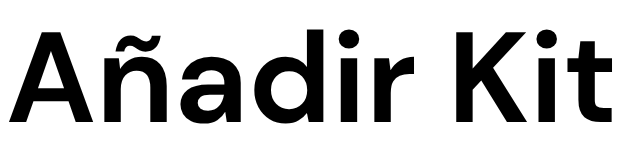
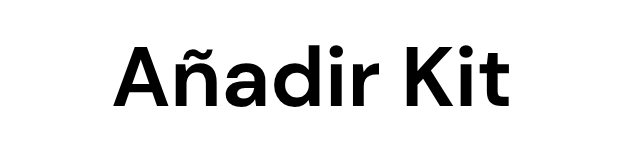
Parte gráfica de PanelaAgregarKit
Completé la parte gráfica de AgregarKit, ya solo falta que Emma añada la lógica.

Changed region(s): [[0.0, 0.1795, 1.0, 0.7949]]

diff --git a/BiblioMath/src/PanelAgregarKit.java b/BiblioMath/src/PanelAgregarKit.java
@@ -31,9 +31,9 @@ import javax.swing.border.LineBorder; // Permite agregar colores
 public class PanelAgregarKit extends JPanel { // Función: Formulario para conceptos
 
     private JButton botonLogoBiblio, botonHerramientas, botonlogoMate, botonRegistar,botonBiblioConcepto,botonEjercicios,botonKits;
-    private JLabel tectoAprenderHoy, textoNombreConcepto,textoInstrucciones, textoInstruccionesRespuesta;
-    private JTextField campoNombreConcepto;
-    private JTextArea informacionEjercicio, informacionRespuesta;
+    private JLabel tectoAprenderHoy, imagenDecorativaEscalonado, textonombreKit;
+    private JTextField campoNombreKit;
+
     private Sistema sistema;
 
     public PanelAgregarKit(Sistema sistema) {
@@ -53,7 +53,7 @@ public class PanelAgregarKit extends JPanel { // Función: Formulario para conce
     
     //BOTON LOGO
         //Carga imagen del logo de biblioMath
-        ImageIcon logoBiblioOriginal = new ImageIcon("BiblioMath/recursos/anadirKit.png"); //Agregamos la imagen "carpeta/carpeta/archivo.loqueEs"
+        ImageIcon logoBiblioOriginal = new ImageIcon("BiblioMath/recursos/logoBiblio.png"); //Agregamos la imagen "carpeta/carpeta/archivo.loqueEs"
         //Cambiar el TAMAÑO de la imagen
         Image logoBiEscalada =  logoBiblioOriginal.getImage().getScaledInstance(230, 50, Image.SCALE_SMOOTH);
         //Convertir nuevamente a ImageIcon
@@ -196,7 +196,7 @@ public class PanelAgregarKit extends JPanel { // Función: Formulario para conce
 
 
     //AGREGAR IMAGEN DEL TEXTO
-        ImageIcon textoAprender = new ImageIcon("BiblioMath/recursos/anadirEjercicio.png"); //Agregamos la imagen "carpeta/carpeta/archivo.loqueEs"
+        ImageIcon textoAprender = new ImageIcon("BiblioMath/recursos/anadirKit.png"); //Agregamos la imagen "carpeta/carpeta/archivo.loqueEs"
         //Cambiar el TAMAÑO de la imagen
         Image textoApEscalonada =  textoAprender.getImage().getScaledInstance(400, 100, Image.SCALE_SMOOTH);
         //Convertir nuevamente a ImageIcon
@@ -217,81 +217,49 @@ public class PanelAgregarKit extends JPanel { // Función: Formulario para conce
         ladoIzquiero.setOpaque(false); //Para que no muestre color 
 
         //Mostrar Ingrese el nombre del concepto 
-        textoNombreConcepto = new JLabel("Nombre del Concepto");
-        textoNombreConcepto.setFont(new Font ("SansSerif", Font.PLAIN, 20)); //Poner una fuente al texto. 
-        textoNombreConcepto.setForeground( Color.WHITE); // cambiar de color de letra 
-        textoNombreConcepto.setAlignmentX(CENTER_ALIGNMENT); // Para que se posiciones a la derecha
+        textonombreKit = new JLabel("Nombre del Kit");
+        textonombreKit.setFont(new Font ("SansSerif", Font.PLAIN, 20)); //Poner una fuente al texto. 
+        textonombreKit.setForeground( Color.WHITE); // cambiar de color de letra 
+        textonombreKit.setAlignmentX(CENTER_ALIGNMENT); // Para que se posiciones a la derecha
 
         //Mostrar intrucciones
-        campoNombreConcepto = new JTextField();
-        campoNombreConcepto.setMaximumSize(new Dimension(350,35));  //Deteriminar tamaño dell campo
-        campoNombreConcepto.setAlignmentX(CENTER_ALIGNMENT);
-        campoNombreConcepto.setAlignmentY(CENTER_ALIGNMENT);//Alinear
+        campoNombreKit = new JTextField();
+        campoNombreKit.setMaximumSize(new Dimension(350,35));  //Deteriminar tamaño dell campo
+        campoNombreKit.setAlignmentX(CENTER_ALIGNMENT);
+        campoNombreKit.setAlignmentY(CENTER_ALIGNMENT);//Alinear
 
-         //Mostrar instrucciones 
-        textoInstrucciones = new JLabel("Ingresa el ejercicio");
-        textoInstrucciones.setFont(new Font ("SansSerif", Font.PLAIN, 20)); //Poner una fuente al texto. 
-        textoInstrucciones.setForeground( Color.WHITE); // cambiar de color de letra 
-        textoInstrucciones.setAlignmentX(CENTER_ALIGNMENT); // Para que se posiciones a la derecha
-
-        //JtextArea
-        informacionEjercicio = new JTextArea();
-        informacionEjercicio.setLineWrap(true); // para un salto de linea
-        informacionEjercicio.setWrapStyleWord(false); //para romper palabras si es necesario
-        informacionEjercicio.setFont(new Font("Arial", Font.PLAIN,12)); // Cambiar el tipo y tamaño de letra
-
-        JScrollPane barra = new JScrollPane(informacionEjercicio); // Crar un Jscrollpanel y se agrega a al cuadro de texto
-        
-        barra.setMaximumSize(new Dimension(350,230)); // Obligamos aque coloque ese tamaño
-        barra.setBorder(new LineBorder(new Color(63, 123, 242)));
-
-        ladoIzquiero.add(Box.createVerticalStrut(30));
-        ladoIzquiero.add(textoNombreConcepto);
-        ladoIzquiero.add(Box.createVerticalStrut(15));
-        ladoIzquiero.add(campoNombreConcepto);
-        ladoIzquiero.add(Box.createVerticalStrut(30));
-        ladoIzquiero.add(textoInstrucciones);
-        ladoIzquiero.add(Box.createVerticalStrut(15));
-        ladoIzquiero.add(barra);
-        ladoIzquiero.add(Box.createVerticalStrut(5));
-
-        contenido.add(ladoIzquiero);
-
-
-    //Lado Derecho
-        JPanel ladoDerecho = new JPanel();
-        ladoDerecho.setLayout(new BoxLayout(ladoDerecho, BoxLayout.Y_AXIS)); //Perminte que se apilen una sobre otra (componente)
-        ladoDerecho.setOpaque(false); //Para que no muestre color 
-
-        //Mostrar instrucciones 
-        textoInstruccionesRespuesta = new JLabel("Ingresa la respuesta del ejercicio");
-        textoInstruccionesRespuesta.setFont(new Font ("SansSerif", Font.PLAIN, 20)); //Poner una fuente al texto. 
-        textoInstruccionesRespuesta.setForeground( Color.WHITE); // cambiar de color de letra 
-        textoInstruccionesRespuesta.setAlignmentX(CENTER_ALIGNMENT); // Para que se posiciones a la derecha
-
-        //JtextArea
-        informacionRespuesta = new JTextArea();
-        informacionRespuesta.setLineWrap(true); // para un salto de linea
-        informacionRespuesta.setWrapStyleWord(false); //para romper palabras si es necesario
-        informacionRespuesta.setFont(new Font("Arial", Font.PLAIN,12)); // Cambiar el tipo y tamaño de letra
-
-        JScrollPane barraRespuesta = new JScrollPane(informacionRespuesta); // Crar un Jscrollpanel y se agrega a al cuadro de texto
-        
-        barraRespuesta.setMaximumSize(new Dimension(350,230)); // Obligamos aque coloque ese tamaño
-        barraRespuesta.setBorder(new LineBorder(new Color(63, 123, 242)));
-
+        //Añadir BOTÓN
         botonRegistar = new JButton("Registrar"); // Crea un boton que va a tener escerito log in
         botonRegistar.setMaximumSize(new Dimension(100,40)); //Limitamos tamaño
         botonRegistar.setAlignmentX(CENTER_ALIGNMENT); //Aliniamos al centro
         botonRegistar.addActionListener(shute);
 
-        ladoDerecho.add(Box.createVerticalStrut(30));
-        ladoDerecho.add(textoInstruccionesRespuesta);
-        ladoDerecho.add(Box.createVerticalStrut(15));
-        ladoDerecho.add(barraRespuesta);
-        ladoDerecho.add(Box.createVerticalStrut(30));
-        ladoDerecho.add(botonRegistar);
 
+        ladoIzquiero.add(Box.createVerticalStrut(140));
+        ladoIzquiero.add(textonombreKit);
+        ladoIzquiero.add(Box.createVerticalStrut(15));
+        ladoIzquiero.add(campoNombreKit);
+        ladoIzquiero.add(Box.createVerticalStrut(15));
+        ladoIzquiero.add(botonRegistar);
+        ladoIzquiero.add(Box.createVerticalStrut(30));
+        contenido.add(ladoIzquiero);
+
+
+    //Lado Derecho
+        JPanel ladoDerecho = new JPanel();
+
+        ladoDerecho.setOpaque(false);
+
+
+        ImageIcon imagenDecorativa = new ImageIcon("BiblioMath/recursos/imagenKit.png");
+        //Modifcar tamaño
+        Image imagenDeEscalada = imagenDecorativa.getImage().getScaledInstance(450,450,Image.SCALE_SMOOTH);
+        //Convetir nuevamente a ImageIcon
+        ImageIcon imagenDeEscaladaEscalado = new ImageIcon(imagenDeEscalada);
+        //Agregar a Jlabel para mostrar
+        imagenDecorativaEscalonado = new JLabel(imagenDeEscaladaEscalado);
+        
+        ladoDerecho.add(imagenDecorativaEscalonado);
         contenido.add(ladoDerecho);
 
     
@@ -318,11 +286,6 @@ public class PanelAgregarKit extends JPanel { // Función: Formulario para conce
             //BLOQUE IZQUIERDA
             g.setColor(new Color(63, 123, 242));
             g.fillRect(50, 220, 410, 410);
-
-            //BLOQUE DERECHA
-            //BLOQUE IZQUIERDA
-            g.setColor(new Color(123, 158, 235));
-            g.fillRect(545, 220, 410, 410);
             
         }
 
@@ -353,7 +316,7 @@ public class PanelAgregarKit extends JPanel { // Función: Formulario para conce
             }
             
             if(e.getSource() == botonKits){
-                //sistema.mostrarKits(); 
+                sistema.mostrarKits(); 
             }
 
             if(e.getSource() == botonEjercicios){
@@ -365,19 +328,17 @@ public class PanelAgregarKit extends JPanel { // Función: Formulario para conce
             }
 
             if(e.getSource() == botonRegistar){
-                String nombre = campoNombreConcepto.getText().trim();
-                String ejercicio = informacionEjercicio.getText().trim();
-                String respuesta = informacionRespuesta.getText().trim();
+                String nombre = campoNombreKit.getText().trim();
 
-                if (nombre.isEmpty() || ejercicio.isEmpty() || respuesta.isEmpty()) { //Si no se ha completado el formulario se solicita que lo haga
+
+                if (nombre.isEmpty()) { //Si no se ha completado el formulario se solicita que lo haga
                     JOptionPane.showMessageDialog(PanelAgregarKit.this, "Completa todos los campos para poder registrar el nuevo concepto.");
                 }else{ //Si todos los campos estan llenos, se llama al metdo de registrad concepto del sistema
-                    String m = sistema.agregarEjercicio(nombre,ejercicio,respuesta);
-                    JOptionPane.showMessageDialog(PanelAgregarKit.this, m); //Lo muestra como notificacion
+                    //String m = sistema.agregarEjercicio(nombre);
+                    //JOptionPane.showMessageDialog(PanelAgregarKit.this, m); //Lo muestra como notificacion
 
-                    campoNombreConcepto.setText(""); //Para que la entra de texto se vacié le ponemos "", que es para definir lo que muesta
-                    informacionEjercicio.setText("");
-                    informacionRespuesta.setText("");
+                    campoNombreKit.setText(""); //Para que la entra de texto se vacié le ponemos "", que es para definir lo que muesta
+                   
                 }
             }
 
